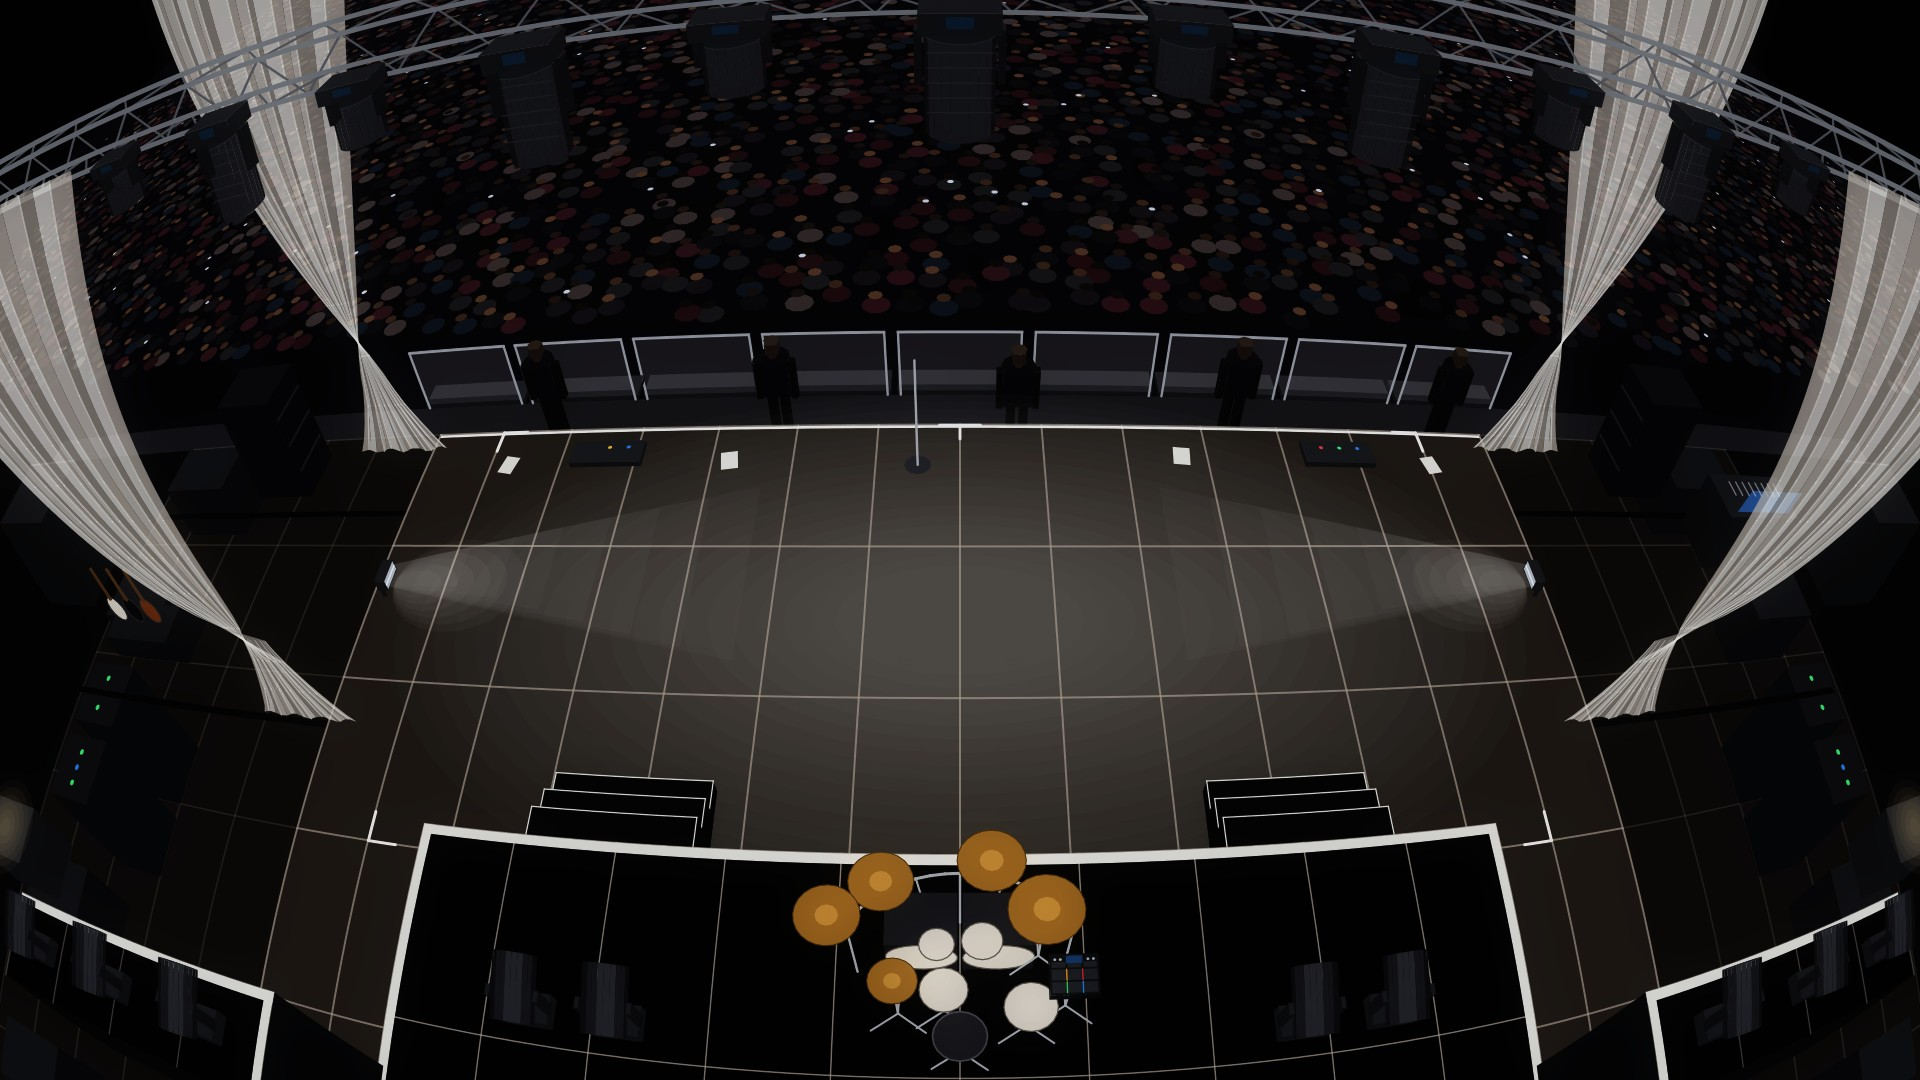
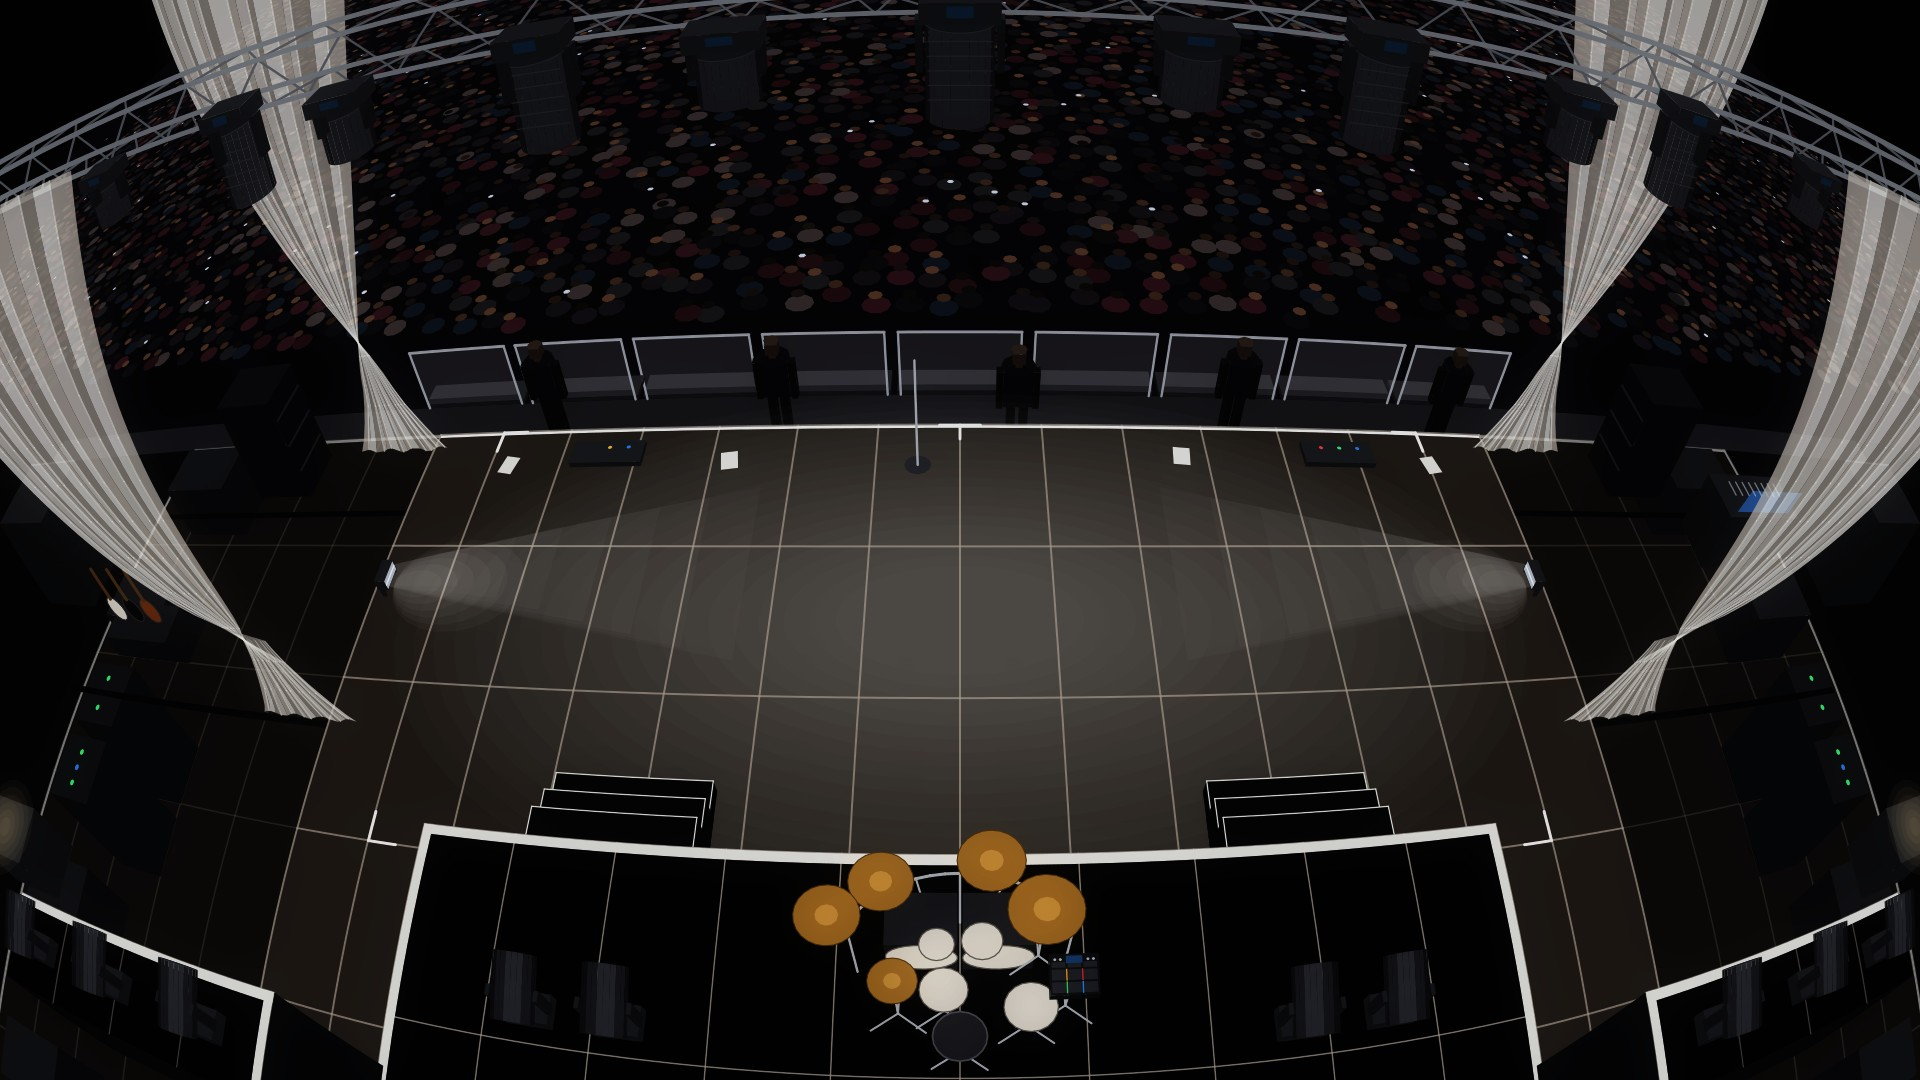
chore(gallery): line the Concert's wing edges and split the mid truss's lights by chord
A dimmer safety line runs along the wings' lip and their outer edges.
The spots hang from the mid truss's downstage bottom chord, the washes
from its upstage one.

diff --git a/scripts/gen_concert_default.py b/scripts/gen_concert_default.py
@@ -81,6 +81,7 @@ C_SILVER = "#c6cad1"  # drum hardware
 C_TRUSS, C_TRUSS_LACING = "#8e9299", "#72767d"  # aluminium truss chords and lacing, in shadow
 GAMMA = 1.55  # darkens the scene and keeps the tape white
 TAPE = "#ffffff"
+C_EDGE = "#a9a9a6"  # the safety line along the wings' edges, dimmer than the tape
 
 
 def pinhole(pts) -> np.ndarray:
@@ -261,6 +262,10 @@ def offstage(out: list[str], rng: random.Random) -> None:
             out.append(line((x, LIP_Y, 0.01), (x, 16.0, 0.01), C_SEAM, 1.6, 0.22))
         for y in np.arange(LIP_Y, 16.0 + 1e-6, DECK_D):
             out.append(line((w0, y, 0.01), (w1, y, 0.01), C_SEAM, 1.6, 0.22))
+        e, outer = 0.06, sgn * WING_X  # a dimmer safety line along the wing's lip and its outer edge
+        out.append(poly([(w0, LIP_Y, 0.01), (w1, LIP_Y, 0.01), (w1, LIP_Y + e, 0.01), (w0, LIP_Y + e, 0.01)], C_EDGE))
+        xe = sorted((outer, outer - sgn * e))
+        out.append(poly([(xe[0], LIP_Y, 0.01), (xe[1], LIP_Y, 0.01), (xe[1], 16.0, 0.01), (xe[0], 16.0, 0.01)], C_EDGE))
         for y0 in (1.0, 3.2, 7.5, 9.8):  # road cases
             xa = sgn * (STAGE_X + 2.2 + rng.uniform(0.0, 0.8))
             xs = sorted((xa, xa + sgn * 1.2))
@@ -571,8 +576,11 @@ def mid_truss(out: list[str]) -> None:
             out.append(line((xa, a[0], a[1]), (xb, b[0], b[1]), C_TRUSS_LACING, 2.4))
     for y, z in ((y0, z0), (y0, z1), (y1, z0), (y1, z1)):  # chords
         out.append(line((-span, y, z), (span, y, z), C_TRUSS, 5.0))
-    for k in range(11):  # moving lights under the bottom chord between the legs: wash, spot, wash, ...
-        moving_light(out, -6.0 + 1.2 * k, MID_TRUSS_Y, MID_TRUSS_Z, spot=k % 2 == 1)
+    # Moving lights between the legs, alternating wash, spot, wash, ...: the spots on the downstage bottom chord,
+    # drawn first as they lie further from the camera, the washes on the upstage one.
+    for spot, y in ((True, y0), (False, y1)):
+        for k in range(1 if spot else 0, 11, 2):
+            moving_light(out, -6.0 + 1.2 * k, y, MID_TRUSS_Z, spot=spot)
 
 
 # Moving lights hung upside down, in metres: base length x width x height, width across the yoke, head
